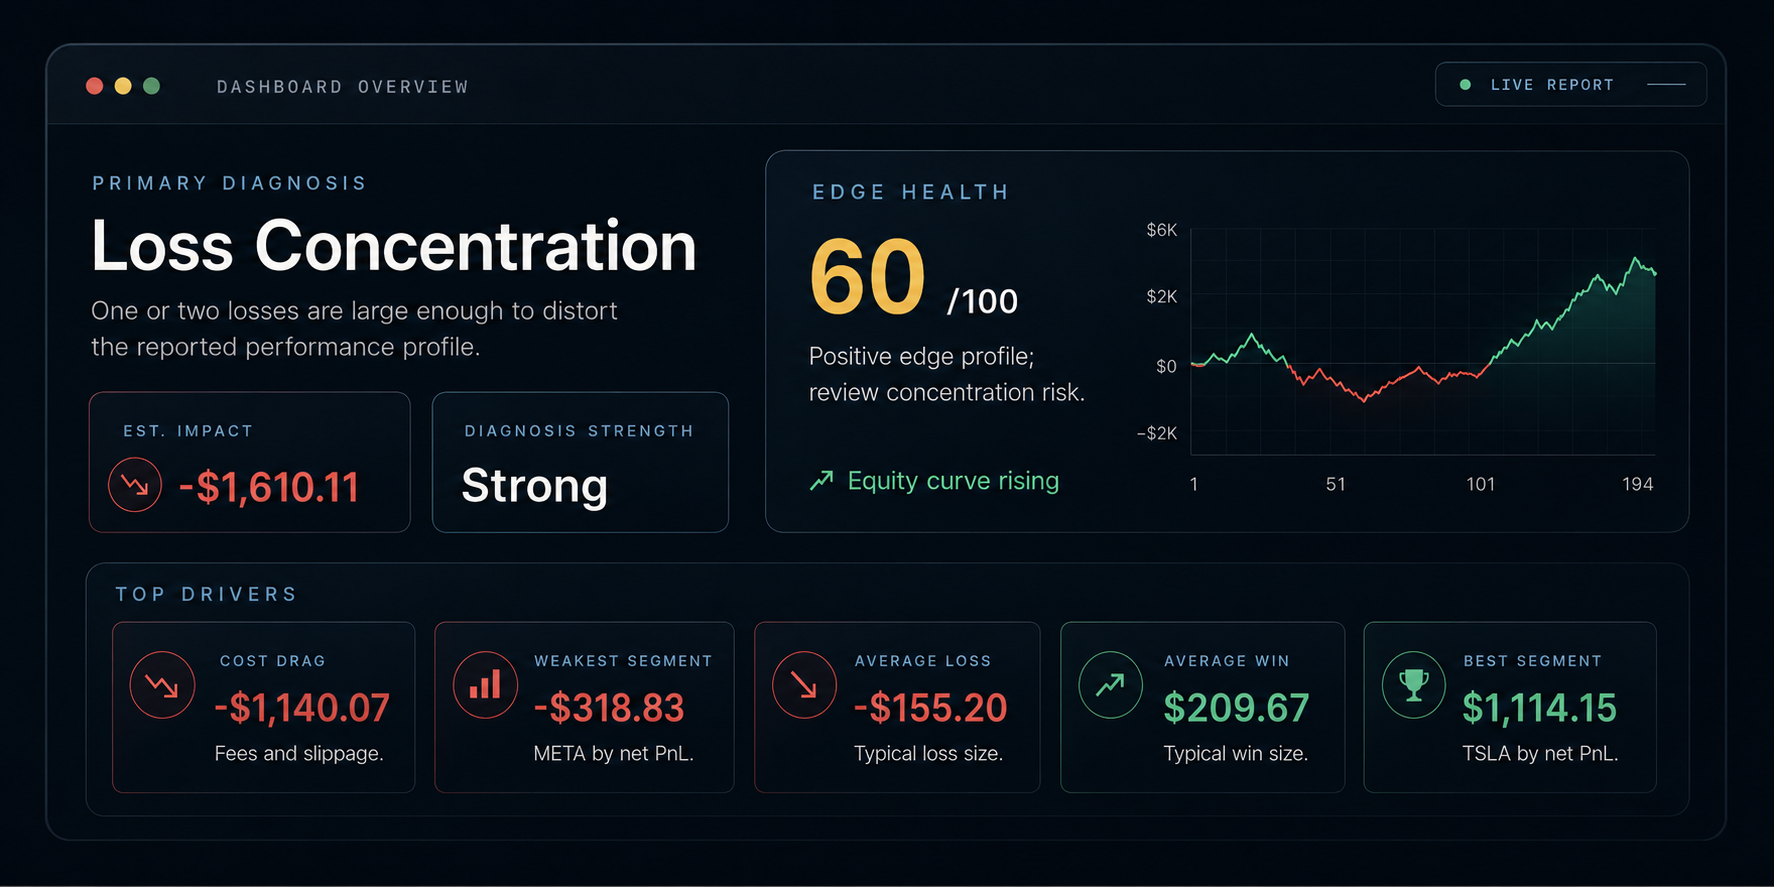
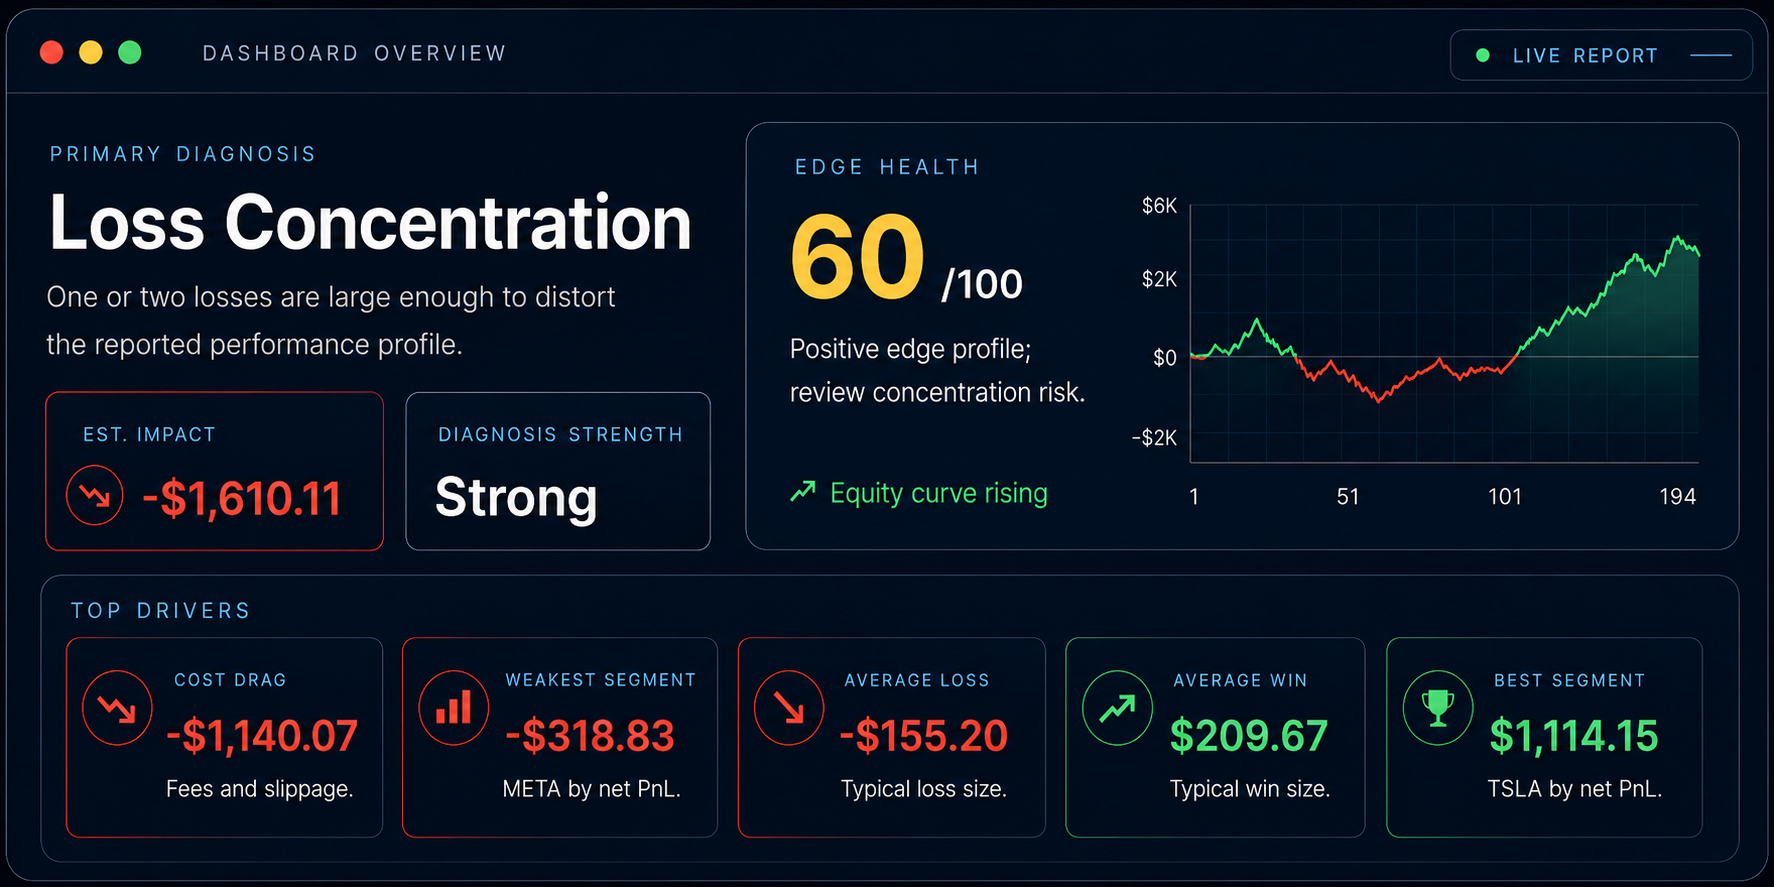
Update landing hero image and background

diff --git a/src/pages/HomePage.tsx b/src/pages/HomePage.tsx
@@ -49,7 +49,7 @@ export function HomePage({
   onLearn: () => void;
 }) {
   return (
-    <main className="relative isolate overflow-hidden bg-graphite">
+    <main className="relative isolate overflow-hidden bg-[#020405]">
       <HomeBackdrop />
 
       <section className="EdgeTrace-shell relative pb-12 pt-12 md:pb-16 md:pt-16 lg:pb-20 lg:pt-20">
@@ -108,9 +108,10 @@ export function HomePage({
 function HomeBackdrop() {
   return (
     <div className="pointer-events-none absolute inset-0 -z-10">
-      <div className="absolute inset-0 bg-[radial-gradient(circle_at_18%_8%,rgba(78,196,236,0.08),transparent_28rem),radial-gradient(circle_at_82%_10%,rgba(232,190,76,0.045),transparent_31rem),linear-gradient(180deg,#020609_0%,#050a0e_48%,#020609_100%)]" />
-      <div className="absolute inset-x-0 top-0 h-[46rem] bg-[linear-gradient(90deg,rgba(78,196,236,0.025)_1px,transparent_1px),linear-gradient(180deg,rgba(78,196,236,0.018)_1px,transparent_1px)] bg-[size:96px_96px] opacity-35 [mask-image:linear-gradient(to_bottom,black,transparent_78%)]" />
-      <div className="absolute left-1/2 top-[35rem] h-px w-[calc(100%-5rem)] max-w-[1420px] -translate-x-1/2 bg-gradient-to-r from-transparent via-cyan/10 to-transparent" />
+      <div className="absolute inset-0 bg-[#020405]" />
+      <div className="absolute inset-x-0 top-0 h-[38rem] bg-[linear-gradient(180deg,rgba(255,255,255,0.028),transparent_24rem)]" />
+      <div className="absolute inset-x-0 top-0 h-px bg-white/[0.08]" />
+      <div className="absolute left-1/2 top-[34rem] h-px w-[calc(100%-5rem)] max-w-[1420px] -translate-x-1/2 bg-white/[0.06]" />
     </div>
   );
 }